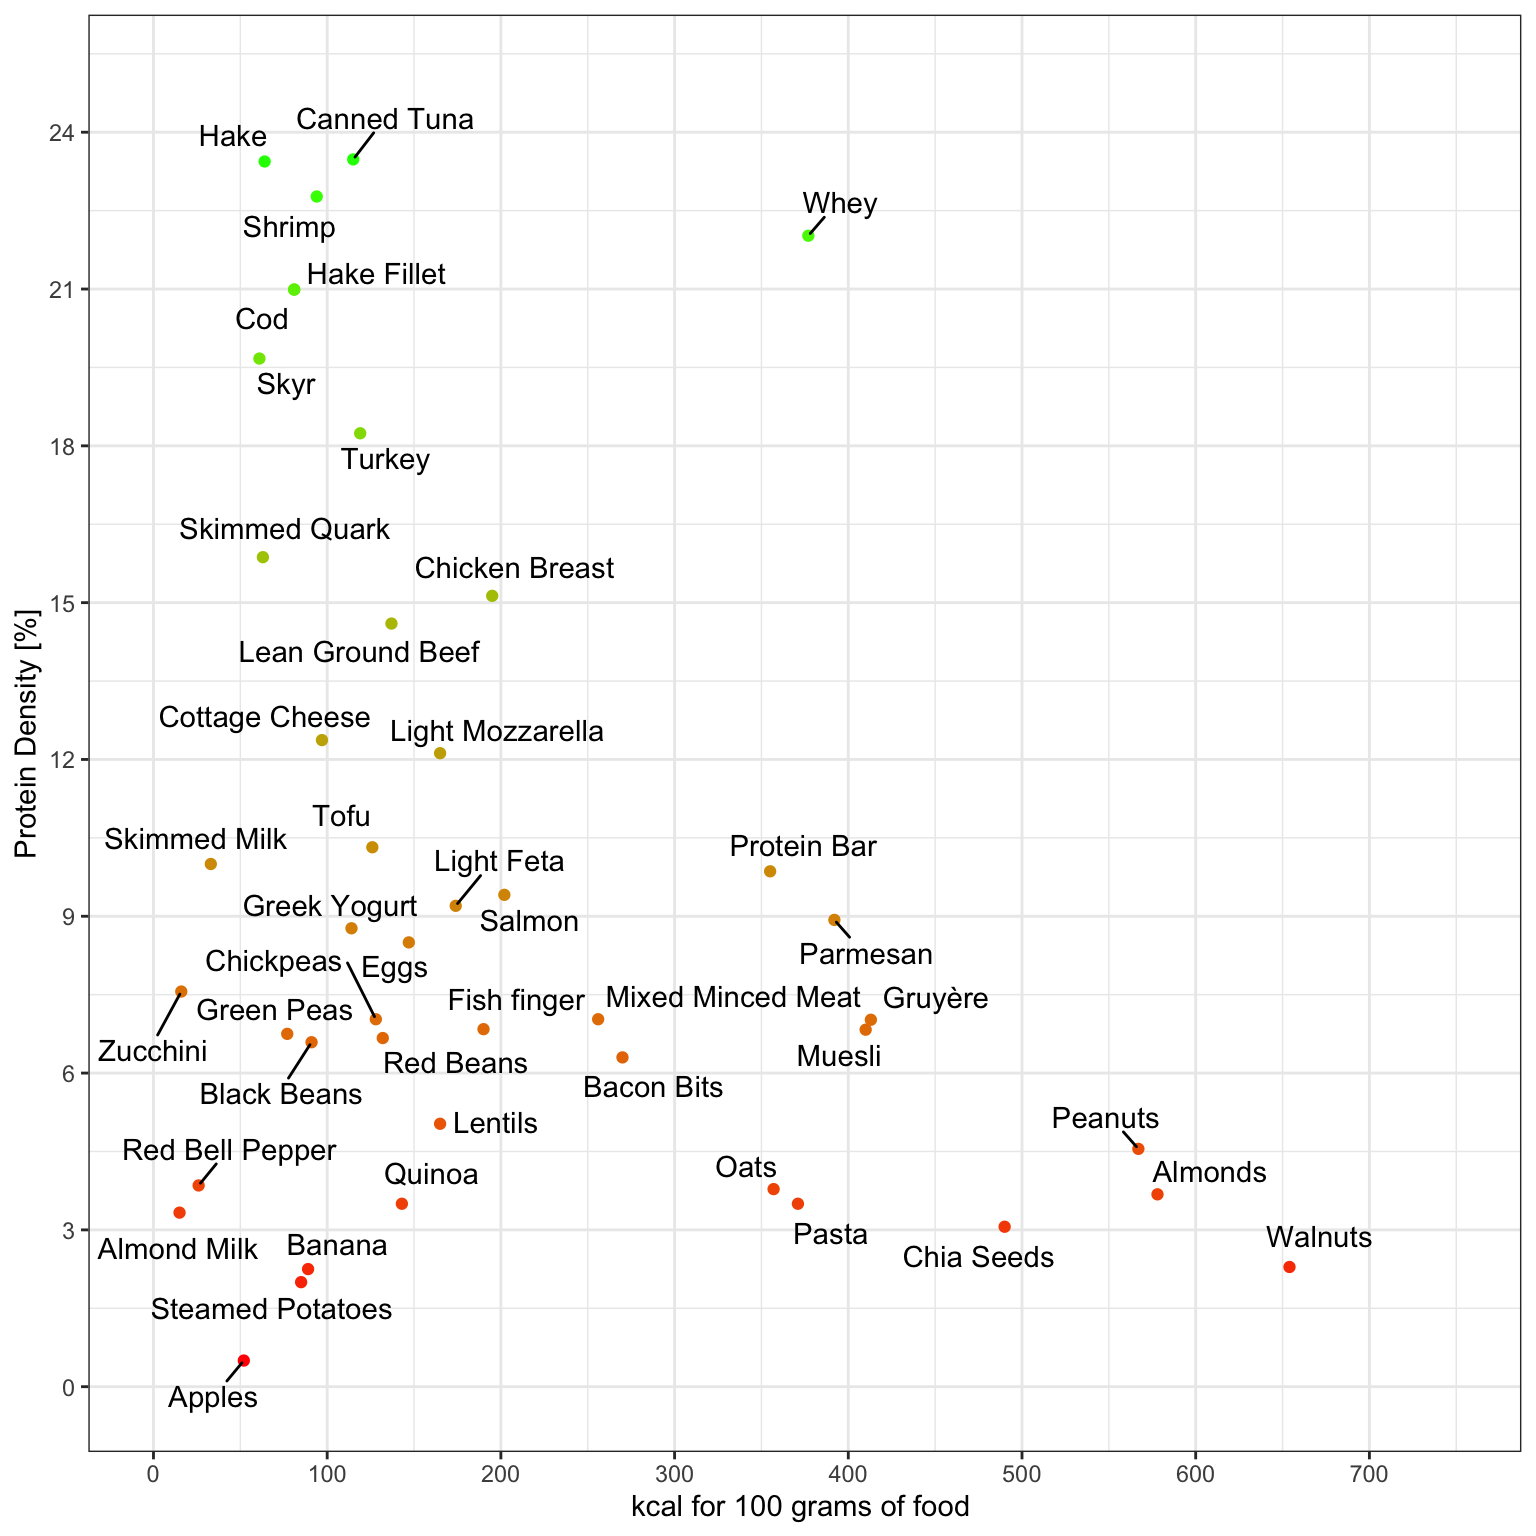
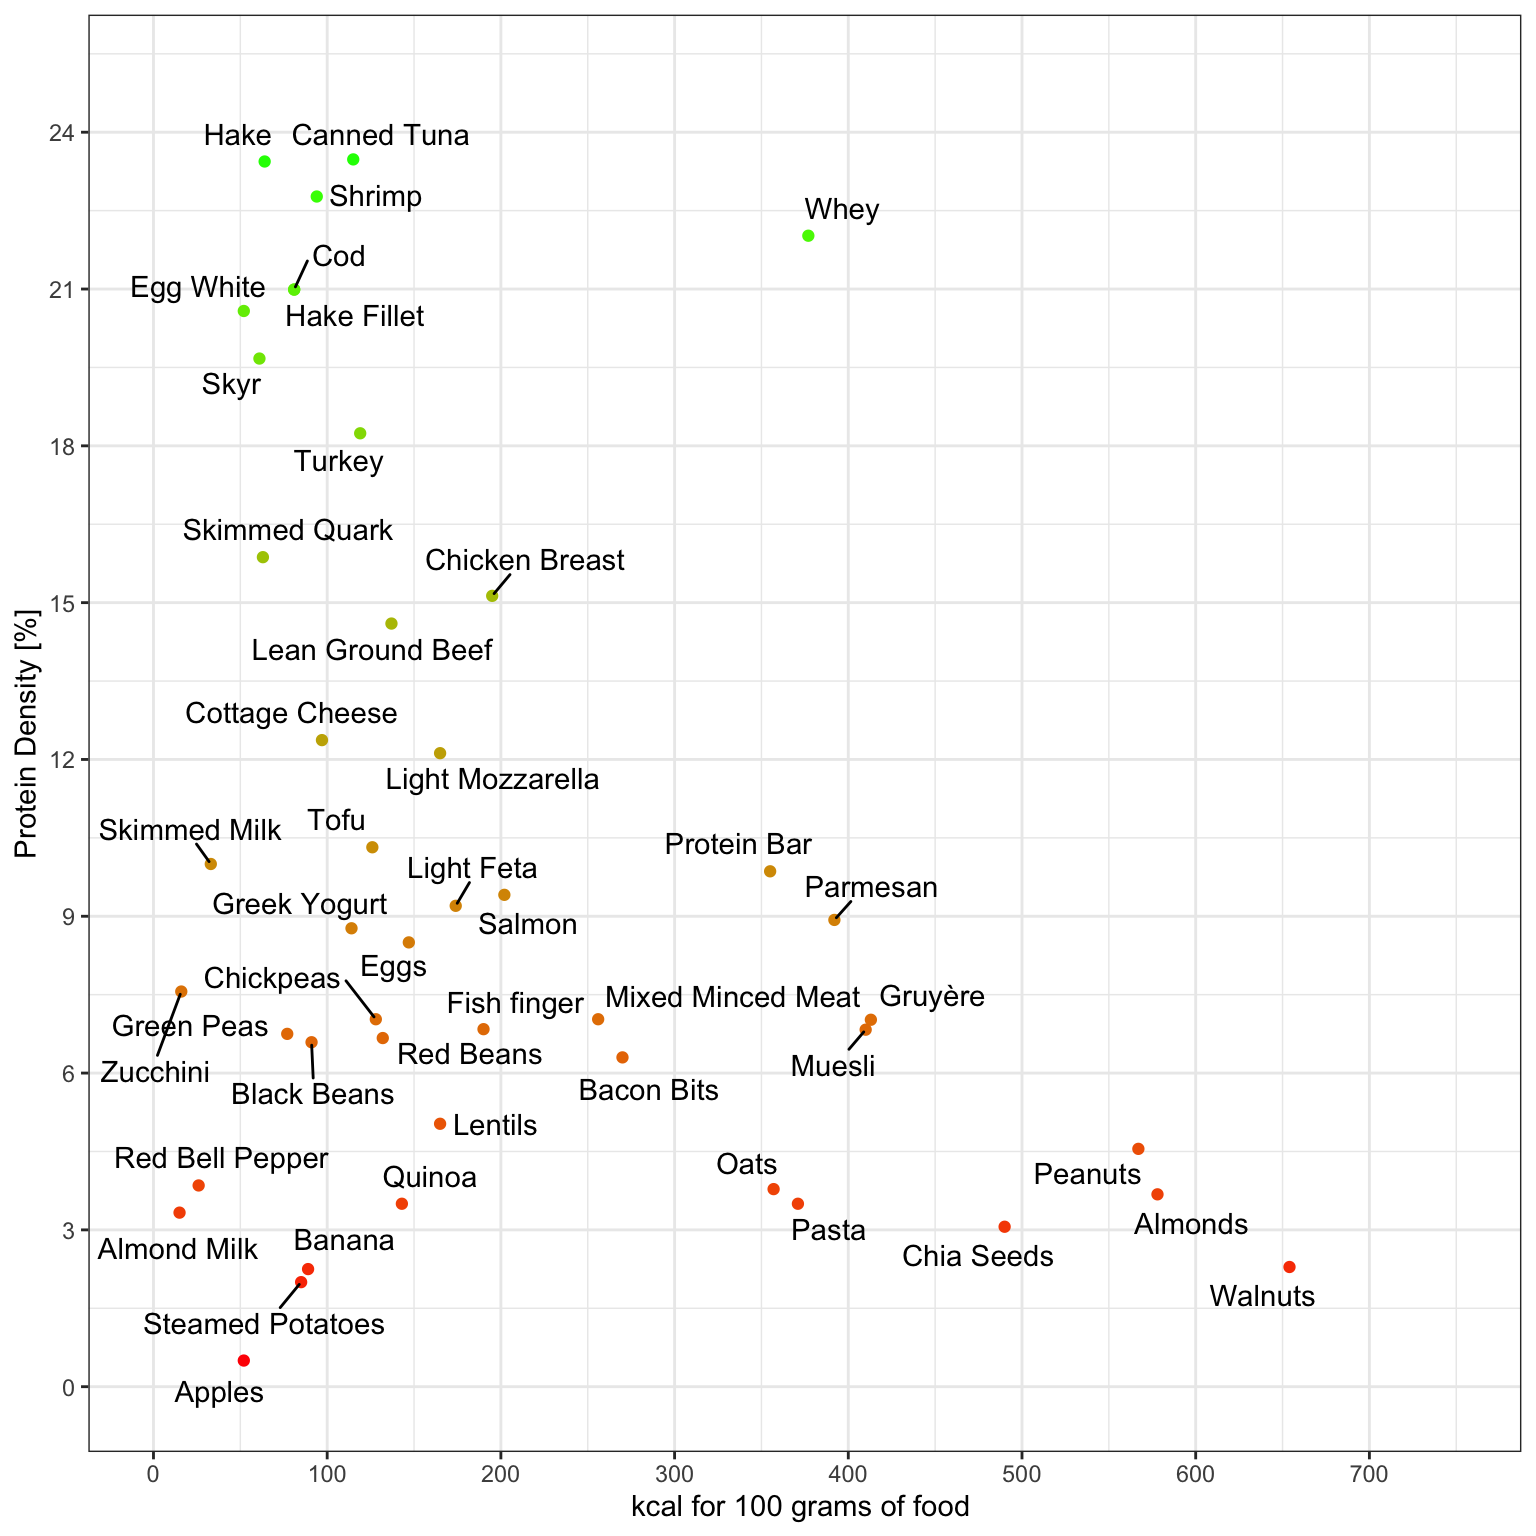
update

diff --git a/dashboard.html b/dashboard.html
@@ -7,7 +7,7 @@
 <meta name="viewport" content="width=device-width, initial-scale=1.0, user-scalable=yes">
 
 <meta name="author" content="Andrés A.">
-<meta name="dcterms.date" content="2024-09-09">
+<meta name="dcterms.date" content="2024-09-10">
 
 <title>NutriPlot</title>
 <style>
@@ -116,7 +116,7 @@ pre > code.sourceCode > span > a:first-child::before { text-decoration: underlin
     <div>
     <div class="quarto-title-meta-heading">Published</div>
     <div class="quarto-title-meta-contents">
-      <p class="date">September 9, 2024</p>
+      <p class="date">September 10, 2024</p>
     </div>
   </div>
   
@@ -218,8 +218,8 @@ Figure&nbsp;1: for 100g of content
 <span id="cb2-13"><a href="#cb2-13" aria-hidden="true" tabindex="-1"></a>t</span></code><button title="Copy to Clipboard" class="code-copy-button"><i class="bi"></i></button></pre></div>
 </details>
 <div class="cell-output-display">
-<div class="datatables html-widget html-fill-item" id="htmlwidget-6d1d682be4db23a9e97d" style="width:100%;height:auto;"></div>
-<script type="application/json" data-for="htmlwidget-6d1d682be4db23a9e97d">{"x":{"crosstalkOptions":{"key":["1","2","3","4","5","6","7","8","9","10","11","12","13","14","15","16","17","18","19","20","21","22","23","24","25","26","27","28","29","30","31","32","33","34","35","36","37","38","39","40","41","42","43","44"],"group":"SharedData674c5ce7"},"filter":"top","vertical":false,"filterHTML":"<tr>\n  <td data-type=\"character\" style=\"vertical-align: top;\">\n    <div class=\"form-group has-feedback\" style=\"margin-bottom: auto;\">\n      <input type=\"search\" placeholder=\"All\" class=\"form-control\" style=\"width: 100%;\"/>\n      <span class=\"glyphicon glyphicon-remove-circle form-control-feedback\"><\/span>\n    <\/div>\n  <\/td>\n  <td data-type=\"number\" style=\"vertical-align: top;\">\n    <div class=\"form-group has-feedback\" style=\"margin-bottom: auto;\">\n      <input type=\"search\" placeholder=\"All\" class=\"form-control\" style=\"width: 100%;\"/>\n      <span class=\"glyphicon glyphicon-remove-circle form-control-feedback\"><\/span>\n    <\/div>\n    <div style=\"display: none;position: absolute;width: 200px;opacity: 1\">\n      <div data-min=\"15\" data-max=\"654\"><\/div>\n      <span style=\"float: left;\"><\/span>\n      <span style=\"float: right;\"><\/span>\n    <\/div>\n  <\/td>\n  <td data-type=\"number\" style=\"vertical-align: top;\">\n    <div class=\"form-group has-feedback\" style=\"margin-bottom: auto;\">\n      <input type=\"search\" placeholder=\"All\" class=\"form-control\" style=\"width: 100%;\"/>\n      <span class=\"glyphicon glyphicon-remove-circle form-control-feedback\"><\/span>\n    <\/div>\n    <div style=\"display: none;position: absolute;width: 200px;opacity: 1\">\n      <div data-min=\"0.26\" data-max=\"83\" data-scale=\"2\"><\/div>\n      <span style=\"float: left;\"><\/span>\n      <span style=\"float: right;\"><\/span>\n    <\/div>\n  <\/td>\n  <td data-type=\"number\" style=\"vertical-align: top;\">\n    <div class=\"form-group has-feedback\" style=\"margin-bottom: auto;\">\n      <input type=\"search\" placeholder=\"All\" class=\"form-control\" style=\"width: 100%;\"/>\n      <span class=\"glyphicon glyphicon-remove-circle form-control-feedback\"><\/span>\n    <\/div>\n    <div style=\"display: none;position: absolute;width: 200px;opacity: 1\">\n      <div data-min=\"0.5\" data-max=\"23.48\" data-scale=\"2\"><\/div>\n      <span style=\"float: left;\"><\/span>\n      <span style=\"float: right;\"><\/span>\n    <\/div>\n  <\/td>\n<\/tr>","data":[["Canned Tuna","Hake","Shrimp","Whey","Cod","Hake Fillet","Skyr","Turkey","Skimmed Quark","Chicken Breast","Lean Ground Beef","Cottage Cheese","Light Mozzarella","Tofu","Skimmed Milk","Protein Bar","Salmon","Light Feta","Parmesan","Greek Yogurt","Eggs","Zucchini","Chickpeas","Mixed Minced Meat","Gruyère","Fish finger","Muesli","Green Peas","Red Beans","Black Beans","Bacon Bits","Lentils","Peanuts","Red Bell Pepper","Oats","Almonds","Quinoa","Pasta","Almond Milk","Chia Seeds","Walnuts","Banana","Steamed Potatoes","Apples"],[115,64,94,377,81,81,61,119,63,195,137,97,165,126,33,355,202,174,392,114,147,16,128,256,413,190,410,77,132,91,270,165,567,26,357,578,143,371,15,490,654,89,85,52],[27,15,21.4,83,17,17,12,21.7,10,29.5,20,12,20,13,3.3,35,19,16,35,10,12.5,1.21,9,18,29,13,28,5.2,8.800000000000001,6,17,8.300000000000001,25.8,1,13.5,21.26,5,13,0.5,15,15,2,1.7,0.26],[23.48,23.44,22.77,22.02,20.99,20.99,19.67,18.24,15.87,15.13,14.6,12.37,12.12,10.32,10,9.859999999999999,9.41,9.199999999999999,8.93,8.77,8.5,7.56,7.03,7.03,7.02,6.84,6.83,6.75,6.67,6.59,6.3,5.03,4.55,3.85,3.78,3.68,3.5,3.5,3.33,3.06,2.29,2.25,2,0.5]],"container":"<table class=\"display\">\n  <thead>\n    <tr>\n      <th>names<\/th>\n      <th>Kcal for 100g<\/th>\n      <th>grams protein for 100g of food<\/th>\n      <th>Protein Density [%]<\/th>\n    <\/tr>\n  <\/thead>\n<\/table>","options":{"paging":true,"pageLength":20,"dom":"t","scrollX":true,"columnDefs":[{"className":"dt-right","targets":[1,2,3]},{"name":"name","targets":0},{"name":"kcal_per_100g","targets":1},{"name":"prot_per_100g","targets":2},{"name":"perc_prot","targets":3}],"order":[],"autoWidth":false,"orderClasses":false,"orderCellsTop":true,"lengthMenu":[10,20,25,50,100]},"selection":{"mode":"single","selected":null,"target":"row","selectable":null}},"evals":[],"jsHooks":[]}</script>
+<div class="datatables html-widget html-fill-item" id="htmlwidget-f296e04acbcf2eb6b117" style="width:100%;height:auto;"></div>
+<script type="application/json" data-for="htmlwidget-f296e04acbcf2eb6b117">{"x":{"crosstalkOptions":{"key":["1","2","3","4","5","6","7","8","9","10","11","12","13","14","15","16","17","18","19","20","21","22","23","24","25","26","27","28","29","30","31","32","33","34","35","36","37","38","39","40","41","42","43","44","45"],"group":"SharedData91274a2a"},"filter":"top","vertical":false,"filterHTML":"<tr>\n  <td data-type=\"character\" style=\"vertical-align: top;\">\n    <div class=\"form-group has-feedback\" style=\"margin-bottom: auto;\">\n      <input type=\"search\" placeholder=\"All\" class=\"form-control\" style=\"width: 100%;\"/>\n      <span class=\"glyphicon glyphicon-remove-circle form-control-feedback\"><\/span>\n    <\/div>\n  <\/td>\n  <td data-type=\"number\" style=\"vertical-align: top;\">\n    <div class=\"form-group has-feedback\" style=\"margin-bottom: auto;\">\n      <input type=\"search\" placeholder=\"All\" class=\"form-control\" style=\"width: 100%;\"/>\n      <span class=\"glyphicon glyphicon-remove-circle form-control-feedback\"><\/span>\n    <\/div>\n    <div style=\"display: none;position: absolute;width: 200px;opacity: 1\">\n      <div data-min=\"15\" data-max=\"654\"><\/div>\n      <span style=\"float: left;\"><\/span>\n      <span style=\"float: right;\"><\/span>\n    <\/div>\n  <\/td>\n  <td data-type=\"number\" style=\"vertical-align: top;\">\n    <div class=\"form-group has-feedback\" style=\"margin-bottom: auto;\">\n      <input type=\"search\" placeholder=\"All\" class=\"form-control\" style=\"width: 100%;\"/>\n      <span class=\"glyphicon glyphicon-remove-circle form-control-feedback\"><\/span>\n    <\/div>\n    <div style=\"display: none;position: absolute;width: 200px;opacity: 1\">\n      <div data-min=\"0.26\" data-max=\"83\" data-scale=\"2\"><\/div>\n      <span style=\"float: left;\"><\/span>\n      <span style=\"float: right;\"><\/span>\n    <\/div>\n  <\/td>\n  <td data-type=\"number\" style=\"vertical-align: top;\">\n    <div class=\"form-group has-feedback\" style=\"margin-bottom: auto;\">\n      <input type=\"search\" placeholder=\"All\" class=\"form-control\" style=\"width: 100%;\"/>\n      <span class=\"glyphicon glyphicon-remove-circle form-control-feedback\"><\/span>\n    <\/div>\n    <div style=\"display: none;position: absolute;width: 200px;opacity: 1\">\n      <div data-min=\"0.5\" data-max=\"23.48\" data-scale=\"2\"><\/div>\n      <span style=\"float: left;\"><\/span>\n      <span style=\"float: right;\"><\/span>\n    <\/div>\n  <\/td>\n<\/tr>","data":[["Canned Tuna","Hake","Shrimp","Whey","Cod","Hake Fillet","Egg White","Skyr","Turkey","Skimmed Quark","Chicken Breast","Lean Ground Beef","Cottage Cheese","Light Mozzarella","Tofu","Skimmed Milk","Protein Bar","Salmon","Light Feta","Parmesan","Greek Yogurt","Eggs","Zucchini","Chickpeas","Mixed Minced Meat","Gruyère","Fish finger","Muesli","Green Peas","Red Beans","Black Beans","Bacon Bits","Lentils","Peanuts","Red Bell Pepper","Oats","Almonds","Quinoa","Pasta","Almond Milk","Chia Seeds","Walnuts","Banana","Steamed Potatoes","Apples"],[115,64,94,377,81,81,52,61,119,63,195,137,97,165,126,33,355,202,174,392,114,147,16,128,256,413,190,410,77,132,91,270,165,567,26,357,578,143,371,15,490,654,89,85,52],[27,15,21.4,83,17,17,10.7,12,21.7,10,29.5,20,12,20,13,3.3,35,19,16,35,10,12.5,1.21,9,18,29,13,28,5.2,8.800000000000001,6,17,8.300000000000001,25.8,1,13.5,21.26,5,13,0.5,15,15,2,1.7,0.26],[23.48,23.44,22.77,22.02,20.99,20.99,20.58,19.67,18.24,15.87,15.13,14.6,12.37,12.12,10.32,10,9.859999999999999,9.41,9.199999999999999,8.93,8.77,8.5,7.56,7.03,7.03,7.02,6.84,6.83,6.75,6.67,6.59,6.3,5.03,4.55,3.85,3.78,3.68,3.5,3.5,3.33,3.06,2.29,2.25,2,0.5]],"container":"<table class=\"display\">\n  <thead>\n    <tr>\n      <th>names<\/th>\n      <th>Kcal for 100g<\/th>\n      <th>grams protein for 100g of food<\/th>\n      <th>Protein Density [%]<\/th>\n    <\/tr>\n  <\/thead>\n<\/table>","options":{"paging":true,"pageLength":20,"dom":"t","scrollX":true,"columnDefs":[{"className":"dt-right","targets":[1,2,3]},{"name":"name","targets":0},{"name":"kcal_per_100g","targets":1},{"name":"prot_per_100g","targets":2},{"name":"perc_prot","targets":3}],"order":[],"autoWidth":false,"orderClasses":false,"orderCellsTop":true,"lengthMenu":[10,20,25,50,100]},"selection":{"mode":"single","selected":null,"target":"row","selectable":null}},"evals":[],"jsHooks":[]}</script>
 <p>Table</p>
 </div>
 </div>

diff --git a/index.html b/index.html
@@ -7,7 +7,7 @@
 <meta name="viewport" content="width=device-width, initial-scale=1.0, user-scalable=yes">
 
 <meta name="author" content="Andrés A.">
-<meta name="dcterms.date" content="2024-09-09">
+<meta name="dcterms.date" content="2024-09-10">
 
 <title>NutriPlot</title>
 <style>
@@ -116,7 +116,7 @@ pre > code.sourceCode > span > a:first-child::before { text-decoration: underlin
     <div>
     <div class="quarto-title-meta-heading">Published</div>
     <div class="quarto-title-meta-contents">
-      <p class="date">September 9, 2024</p>
+      <p class="date">September 10, 2024</p>
     </div>
   </div>
   
@@ -218,8 +218,8 @@ Figure&nbsp;1: for 100g of content
 <span id="cb2-13"><a href="#cb2-13" aria-hidden="true" tabindex="-1"></a>t</span></code><button title="Copy to Clipboard" class="code-copy-button"><i class="bi"></i></button></pre></div>
 </details>
 <div class="cell-output-display">
-<div class="datatables html-widget html-fill-item" id="htmlwidget-6bc289ba9bce7a10a662" style="width:100%;height:auto;"></div>
-<script type="application/json" data-for="htmlwidget-6bc289ba9bce7a10a662">{"x":{"crosstalkOptions":{"key":["1","2","3","4","5","6","7","8","9","10","11","12","13","14","15","16","17","18","19","20","21","22","23","24","25","26","27","28","29","30","31","32","33","34","35","36","37","38","39","40","41","42","43","44"],"group":"SharedData18efe9f7"},"filter":"top","vertical":false,"filterHTML":"<tr>\n  <td data-type=\"character\" style=\"vertical-align: top;\">\n    <div class=\"form-group has-feedback\" style=\"margin-bottom: auto;\">\n      <input type=\"search\" placeholder=\"All\" class=\"form-control\" style=\"width: 100%;\"/>\n      <span class=\"glyphicon glyphicon-remove-circle form-control-feedback\"><\/span>\n    <\/div>\n  <\/td>\n  <td data-type=\"number\" style=\"vertical-align: top;\">\n    <div class=\"form-group has-feedback\" style=\"margin-bottom: auto;\">\n      <input type=\"search\" placeholder=\"All\" class=\"form-control\" style=\"width: 100%;\"/>\n      <span class=\"glyphicon glyphicon-remove-circle form-control-feedback\"><\/span>\n    <\/div>\n    <div style=\"display: none;position: absolute;width: 200px;opacity: 1\">\n      <div data-min=\"15\" data-max=\"654\"><\/div>\n      <span style=\"float: left;\"><\/span>\n      <span style=\"float: right;\"><\/span>\n    <\/div>\n  <\/td>\n  <td data-type=\"number\" style=\"vertical-align: top;\">\n    <div class=\"form-group has-feedback\" style=\"margin-bottom: auto;\">\n      <input type=\"search\" placeholder=\"All\" class=\"form-control\" style=\"width: 100%;\"/>\n      <span class=\"glyphicon glyphicon-remove-circle form-control-feedback\"><\/span>\n    <\/div>\n    <div style=\"display: none;position: absolute;width: 200px;opacity: 1\">\n      <div data-min=\"0.26\" data-max=\"83\" data-scale=\"2\"><\/div>\n      <span style=\"float: left;\"><\/span>\n      <span style=\"float: right;\"><\/span>\n    <\/div>\n  <\/td>\n  <td data-type=\"number\" style=\"vertical-align: top;\">\n    <div class=\"form-group has-feedback\" style=\"margin-bottom: auto;\">\n      <input type=\"search\" placeholder=\"All\" class=\"form-control\" style=\"width: 100%;\"/>\n      <span class=\"glyphicon glyphicon-remove-circle form-control-feedback\"><\/span>\n    <\/div>\n    <div style=\"display: none;position: absolute;width: 200px;opacity: 1\">\n      <div data-min=\"0.5\" data-max=\"23.48\" data-scale=\"2\"><\/div>\n      <span style=\"float: left;\"><\/span>\n      <span style=\"float: right;\"><\/span>\n    <\/div>\n  <\/td>\n<\/tr>","data":[["Canned Tuna","Hake","Shrimp","Whey","Cod","Hake Fillet","Skyr","Turkey","Skimmed Quark","Chicken Breast","Lean Ground Beef","Cottage Cheese","Light Mozzarella","Tofu","Skimmed Milk","Protein Bar","Salmon","Light Feta","Parmesan","Greek Yogurt","Eggs","Zucchini","Chickpeas","Mixed Minced Meat","Gruyère","Fish finger","Muesli","Green Peas","Red Beans","Black Beans","Bacon Bits","Lentils","Peanuts","Red Bell Pepper","Oats","Almonds","Quinoa","Pasta","Almond Milk","Chia Seeds","Walnuts","Banana","Steamed Potatoes","Apples"],[115,64,94,377,81,81,61,119,63,195,137,97,165,126,33,355,202,174,392,114,147,16,128,256,413,190,410,77,132,91,270,165,567,26,357,578,143,371,15,490,654,89,85,52],[27,15,21.4,83,17,17,12,21.7,10,29.5,20,12,20,13,3.3,35,19,16,35,10,12.5,1.21,9,18,29,13,28,5.2,8.800000000000001,6,17,8.300000000000001,25.8,1,13.5,21.26,5,13,0.5,15,15,2,1.7,0.26],[23.48,23.44,22.77,22.02,20.99,20.99,19.67,18.24,15.87,15.13,14.6,12.37,12.12,10.32,10,9.859999999999999,9.41,9.199999999999999,8.93,8.77,8.5,7.56,7.03,7.03,7.02,6.84,6.83,6.75,6.67,6.59,6.3,5.03,4.55,3.85,3.78,3.68,3.5,3.5,3.33,3.06,2.29,2.25,2,0.5]],"container":"<table class=\"display\">\n  <thead>\n    <tr>\n      <th>names<\/th>\n      <th>Kcal for 100g<\/th>\n      <th>grams protein for 100g of food<\/th>\n      <th>Protein Density [%]<\/th>\n    <\/tr>\n  <\/thead>\n<\/table>","options":{"paging":true,"pageLength":20,"dom":"t","scrollX":true,"columnDefs":[{"className":"dt-right","targets":[1,2,3]},{"name":"name","targets":0},{"name":"kcal_per_100g","targets":1},{"name":"prot_per_100g","targets":2},{"name":"perc_prot","targets":3}],"order":[],"autoWidth":false,"orderClasses":false,"orderCellsTop":true,"lengthMenu":[10,20,25,50,100]},"selection":{"mode":"single","selected":null,"target":"row","selectable":null}},"evals":[],"jsHooks":[]}</script>
+<div class="datatables html-widget html-fill-item" id="htmlwidget-c27c4a56ebe2c42fcc23" style="width:100%;height:auto;"></div>
+<script type="application/json" data-for="htmlwidget-c27c4a56ebe2c42fcc23">{"x":{"crosstalkOptions":{"key":["1","2","3","4","5","6","7","8","9","10","11","12","13","14","15","16","17","18","19","20","21","22","23","24","25","26","27","28","29","30","31","32","33","34","35","36","37","38","39","40","41","42","43","44","45"],"group":"SharedDataa9a50e5a"},"filter":"top","vertical":false,"filterHTML":"<tr>\n  <td data-type=\"character\" style=\"vertical-align: top;\">\n    <div class=\"form-group has-feedback\" style=\"margin-bottom: auto;\">\n      <input type=\"search\" placeholder=\"All\" class=\"form-control\" style=\"width: 100%;\"/>\n      <span class=\"glyphicon glyphicon-remove-circle form-control-feedback\"><\/span>\n    <\/div>\n  <\/td>\n  <td data-type=\"number\" style=\"vertical-align: top;\">\n    <div class=\"form-group has-feedback\" style=\"margin-bottom: auto;\">\n      <input type=\"search\" placeholder=\"All\" class=\"form-control\" style=\"width: 100%;\"/>\n      <span class=\"glyphicon glyphicon-remove-circle form-control-feedback\"><\/span>\n    <\/div>\n    <div style=\"display: none;position: absolute;width: 200px;opacity: 1\">\n      <div data-min=\"15\" data-max=\"654\"><\/div>\n      <span style=\"float: left;\"><\/span>\n      <span style=\"float: right;\"><\/span>\n    <\/div>\n  <\/td>\n  <td data-type=\"number\" style=\"vertical-align: top;\">\n    <div class=\"form-group has-feedback\" style=\"margin-bottom: auto;\">\n      <input type=\"search\" placeholder=\"All\" class=\"form-control\" style=\"width: 100%;\"/>\n      <span class=\"glyphicon glyphicon-remove-circle form-control-feedback\"><\/span>\n    <\/div>\n    <div style=\"display: none;position: absolute;width: 200px;opacity: 1\">\n      <div data-min=\"0.26\" data-max=\"83\" data-scale=\"2\"><\/div>\n      <span style=\"float: left;\"><\/span>\n      <span style=\"float: right;\"><\/span>\n    <\/div>\n  <\/td>\n  <td data-type=\"number\" style=\"vertical-align: top;\">\n    <div class=\"form-group has-feedback\" style=\"margin-bottom: auto;\">\n      <input type=\"search\" placeholder=\"All\" class=\"form-control\" style=\"width: 100%;\"/>\n      <span class=\"glyphicon glyphicon-remove-circle form-control-feedback\"><\/span>\n    <\/div>\n    <div style=\"display: none;position: absolute;width: 200px;opacity: 1\">\n      <div data-min=\"0.5\" data-max=\"23.48\" data-scale=\"2\"><\/div>\n      <span style=\"float: left;\"><\/span>\n      <span style=\"float: right;\"><\/span>\n    <\/div>\n  <\/td>\n<\/tr>","data":[["Canned Tuna","Hake","Shrimp","Whey","Cod","Hake Fillet","Egg White","Skyr","Turkey","Skimmed Quark","Chicken Breast","Lean Ground Beef","Cottage Cheese","Light Mozzarella","Tofu","Skimmed Milk","Protein Bar","Salmon","Light Feta","Parmesan","Greek Yogurt","Eggs","Zucchini","Chickpeas","Mixed Minced Meat","Gruyère","Fish finger","Muesli","Green Peas","Red Beans","Black Beans","Bacon Bits","Lentils","Peanuts","Red Bell Pepper","Oats","Almonds","Quinoa","Pasta","Almond Milk","Chia Seeds","Walnuts","Banana","Steamed Potatoes","Apples"],[115,64,94,377,81,81,52,61,119,63,195,137,97,165,126,33,355,202,174,392,114,147,16,128,256,413,190,410,77,132,91,270,165,567,26,357,578,143,371,15,490,654,89,85,52],[27,15,21.4,83,17,17,10.7,12,21.7,10,29.5,20,12,20,13,3.3,35,19,16,35,10,12.5,1.21,9,18,29,13,28,5.2,8.800000000000001,6,17,8.300000000000001,25.8,1,13.5,21.26,5,13,0.5,15,15,2,1.7,0.26],[23.48,23.44,22.77,22.02,20.99,20.99,20.58,19.67,18.24,15.87,15.13,14.6,12.37,12.12,10.32,10,9.859999999999999,9.41,9.199999999999999,8.93,8.77,8.5,7.56,7.03,7.03,7.02,6.84,6.83,6.75,6.67,6.59,6.3,5.03,4.55,3.85,3.78,3.68,3.5,3.5,3.33,3.06,2.29,2.25,2,0.5]],"container":"<table class=\"display\">\n  <thead>\n    <tr>\n      <th>names<\/th>\n      <th>Kcal for 100g<\/th>\n      <th>grams protein for 100g of food<\/th>\n      <th>Protein Density [%]<\/th>\n    <\/tr>\n  <\/thead>\n<\/table>","options":{"paging":true,"pageLength":20,"dom":"t","scrollX":true,"columnDefs":[{"className":"dt-right","targets":[1,2,3]},{"name":"name","targets":0},{"name":"kcal_per_100g","targets":1},{"name":"prot_per_100g","targets":2},{"name":"perc_prot","targets":3}],"order":[],"autoWidth":false,"orderClasses":false,"orderCellsTop":true,"lengthMenu":[10,20,25,50,100]},"selection":{"mode":"single","selected":null,"target":"row","selectable":null}},"evals":[],"jsHooks":[]}</script>
 <p>Table</p>
 </div>
 </div>
